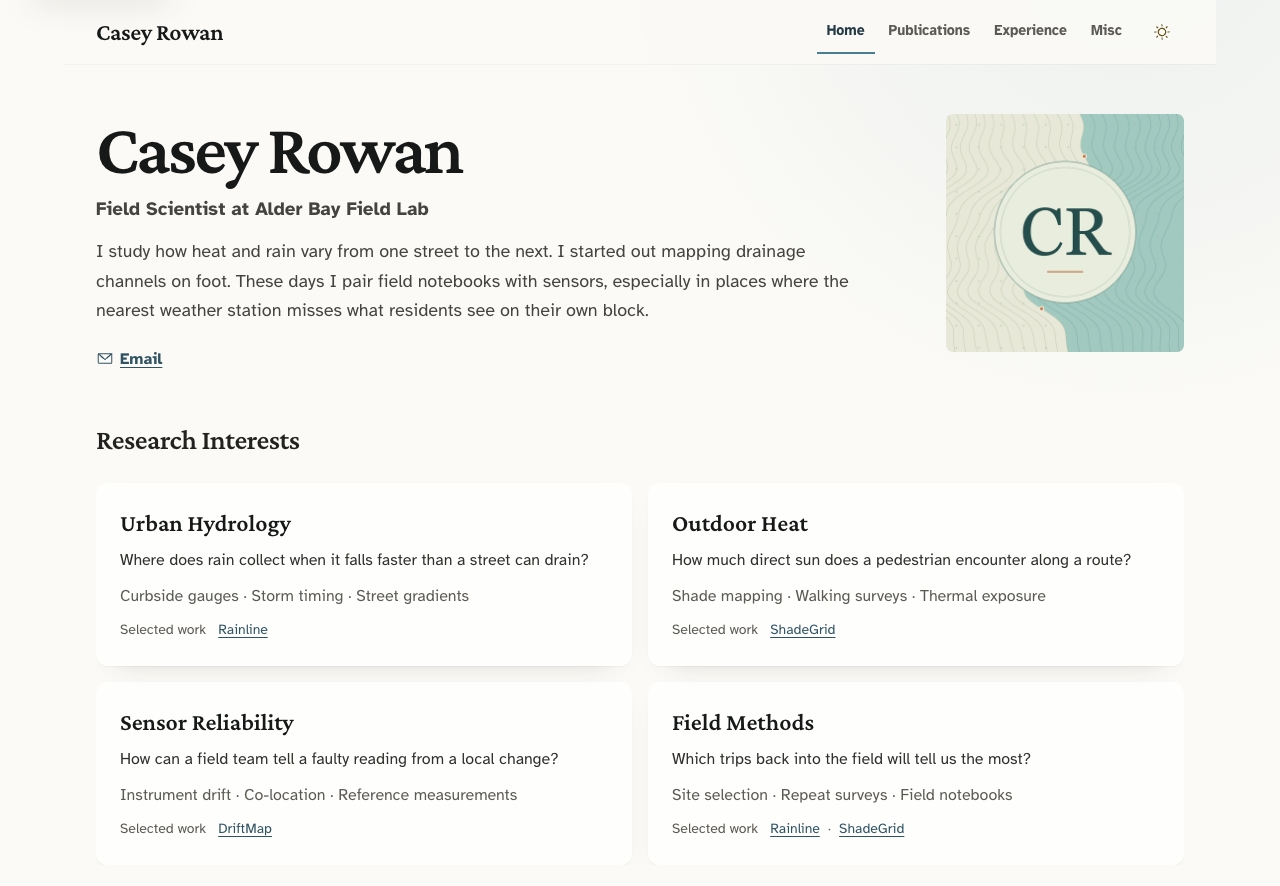
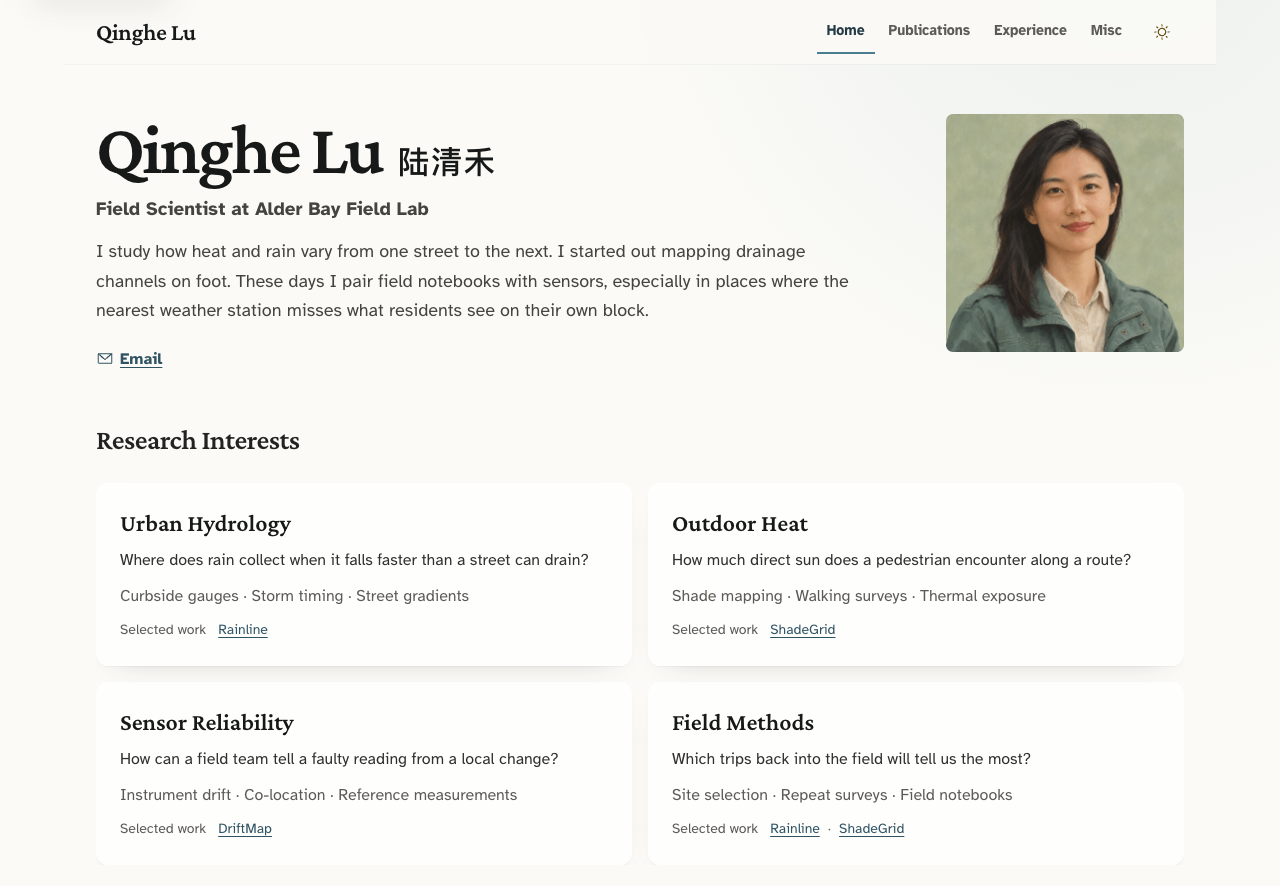
Give the fictional demo researcher a bilingual name and portrait

Changed region(s): [[0.7188, 0.1219, 0.9375, 0.3962], [0.0938, 0.1219, 0.375, 0.2133], [0.0625, 0.0305, 0.1875, 0.0609]]

diff --git a/site.config.ts b/site.config.ts
@@ -1,15 +1,15 @@
 import { defineSiteConfig } from "./src/config/site";
 
 export const siteConfig = defineSiteConfig({
-  author: "Casey Rowan",
-  title: "Casey Rowan",
+  author: "Qinghe Lu",
+  title: "Qinghe Lu",
   siteUrl: process.env.SITE_URL || "http://localhost:4321",
-  description: "Casey Rowan studies how street design shapes heat, rainfall, and air quality.",
+  description: "Qinghe Lu studies how street design shapes heat, rainfall, and air quality.",
   hero: {
-    headline: "",
+    headline: "陆清禾",
     subheadline: "Field Scientist at Alder Bay Field Lab",
     profileImage: "/profile.png",
-    profileAlt: "Casey Rowan’s initials on a coastal contour map",
+    profileAlt: "Portrait of Qinghe Lu, the fictional researcher featured in this template",
     profileImageWidth: 480,
     profileImageHeight: 480,
   },

diff --git a/src/data/home.ts b/src/data/home.ts
@@ -43,7 +43,7 @@ const selectedPublications: FeaturedPublication[] = [
 
 export const home = {
   background: "I study how heat and rain vary from one street to the next. I started out mapping drainage channels on foot. These days I pair field notebooks with sensors, especially in places where the nearest weather station misses what residents see on their own block.",
-  email: "casey@example.org",
+  email: "qinghe@example.org",
   selectedPublications,
   connect: {
     collaborations: "I welcome conversations with people tracing rain, heat, or other changes at street level. I especially enjoy comparing a puzzling sensor record with observations from someone who knows the site.",

diff --git a/tests/bibtex.test.ts b/tests/bibtex.test.ts
@@ -169,9 +169,9 @@ describe("parseBibtex", () => {
 	});
 
 	test("shows an unpublished entry's review status from its ordinary BibTeX note", () => {
-		const [draft] = parseBibtex('@unpublished{d,title={Sketch},author={Rowan, Casey},note={Under review},listingyear=2025}');
+		const [draft] = parseBibtex('@unpublished{d,title={Sketch},author={Lu, Qinghe},note={Under review},listingyear=2025}');
 		expect(draft.venue).toBe("Under review");
-		expect(draft.authors).toEqual(["Casey Rowan"]);
+		expect(draft.authors).toEqual(["Qinghe Lu"]);
 		expect(draft.citation).toContain("note         = {Under review}");
 		expect(draft.citation).not.toMatch(/listingyear|2025|journal/);
 	});

diff --git a/README.md b/README.md
@@ -2,9 +2,9 @@
 
 [Live demo](https://tianyaooooo.github.io/academic-homepage-template/) · [Use this template](https://github.com/tianyaooooo/academic-homepage-template/generate) · [简体中文](README.zh-CN.md)
 
-An Astro portfolio for researchers who want to feature a few papers on the homepage and keep a browsable bibliography alongside it. The demo follows Casey Rowan, a fictional urban field scientist. Its people, institutions, publications, and results are fictional. Its illustrations were made for this template.
+An Astro portfolio for researchers who want to feature a few papers on the homepage and keep a browsable bibliography alongside it. The demo follows Qinghe Lu (陆清禾), a fictional urban field scientist. Its people, institutions, publications, and results are fictional. The profile portrait is AI-generated, and the paper figures and album illustrations were made for this template.
 
-[![Homepage with Casey Rowan’s profile and research interests](docs/preview.png)](https://tianyaooooo.github.io/academic-homepage-template/)
+[![Homepage with Qinghe Lu’s profile and research interests](docs/preview.png)](https://tianyaooooo.github.io/academic-homepage-template/)
 
 **Home** pairs research interests with representative papers, shows five recent news items, and features illustrated research summaries. **Publications** supports year or venue filters, expandable abstracts, author highlighting, and copyable BibTeX. **Experience** groups appointments, teaching, service, and honors. **Misc** opens illustrated albums by theme. All four pages support mobile screens and dark mode.
 

diff --git a/README.zh-CN.md b/README.zh-CN.md
@@ -2,9 +2,9 @@
 
 [在线演示](https://tianyaooooo.github.io/academic-homepage-template/) · [使用模板](https://github.com/tianyaooooo/academic-homepage-template/generate) · [English](README.md)
 
-这套 Astro 模板适合想在首页讲清代表工作、同时保留完整论文列表的研究者。演示人物 Casey Rowan 是一位研究城市环境的虚构学者。人物、机构、论文和研究结果均为虚构，插画为模板原创。
+这套 Astro 模板适合想在首页讲清代表工作、同时保留完整论文列表的研究者。演示人物陆清禾（Qinghe Lu）是一位研究城市环境的虚构学者。人物、机构、论文和研究结果均为虚构，头像由 AI 生成，论文配图和相册插画为模板原创。
 
-[![Casey Rowan 示例主页](docs/preview.png)](https://tianyaooooo.github.io/academic-homepage-template/)
+[![陆清禾的示例主页](docs/preview.png)](https://tianyaooooo.github.io/academic-homepage-template/)
 
 首页展示研究兴趣、图文代表作、荣誉和最近五条动态，较早的动态可展开。论文页可按年份或会议筛选、展开摘要、复制 BibTeX，并自动高亮作者本人。Experience 页展示工作、教学、学术服务和奖项；Misc 页按主题组织相册。
 
